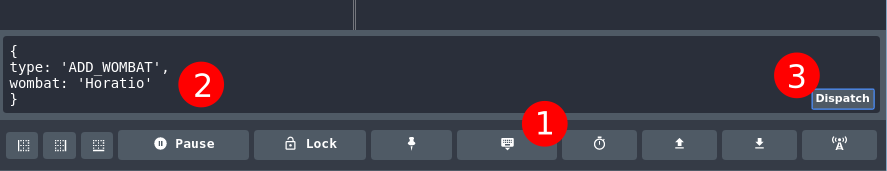
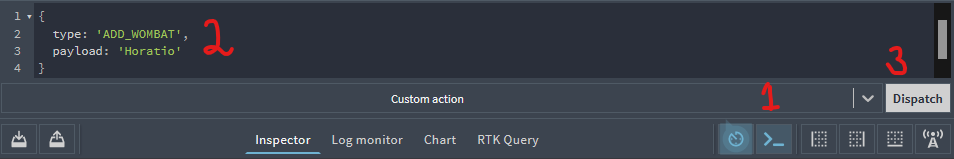
Update ReadMe and image

diff --git a/packages/redux-minimal-solution/README.md b/packages/redux-minimal-solution/README.md
@@ -12,7 +12,7 @@ Open [http://localhost:3000](http://localhost:3000) in your browser.
 
 ## Redux DevTools
 
-The computers on campus should already have the redux devtools installed. If you'd like them on your own computer you can install the Firefox add-on [here](https://addons.mozilla.org/en-US/firefox/addon/reduxdevtools/) and the Chrome extension from [here](https://chrome.google.com/webstore/detail/redux-devtools/lmhkpmbekcpmknklioeibfkpmmfibljd).
+The computers on campus should already have the Redux DevTools installed. If you'd like them on your own computer you can install the Firefox add-on [here](https://addons.mozilla.org/en-US/firefox/addon/reduxdevtools/) and the Chrome extension from [here](https://chrome.google.com/webstore/detail/redux-devtools/lmhkpmbekcpmknklioeibfkpmmfibljd).
 
 
 ## Exercise
@@ -26,11 +26,9 @@ Load up Redux DevTools and dispatch a few `ADD_WOMBAT` and `DEL_WOMBAT` actions 
 
 ### Write some code
 
-- Starting with your `index.js`, follow the *chain* from the **render** function all the way through to the `Wombats.jsx` file. Be sure to take note of the **props** being passed down the chain.
+- Add an `UPDATE_WOMBAT` action to the reducer in `reducers/wombats.js`. Take your time to read through what the reducer currently does, and follow the established pattern to create your new action.
 
-- Add an `UPDATE_WOMBAT` action to the reducer in `reducer.js`. Take your time to read through what the reducer currently does, and follow the established pattern to create your new action.
-
-To update a wombat you will need to provide the **new** name of the wombat (so that it can be changed) but also the **old** name (so that the reducer can find the wombat that needs to be updated).
+To update a wombat you will need to provide the **new** name of the wombat (so that it can be changed) but also the **old** name (so that the reducer can find the wombat that needs to be updated). To hold these two data items, your `payload` will need to be an object instead of a string.
 
 Make sure you can dispatch this new action successfully from Redux DevTools. You'll dispatch this action from code in a later step.
 
@@ -39,11 +37,11 @@ Make sure you can dispatch this new action successfully from Redux DevTools. You
 
 Add a delete button next to each of the wombats so they can be deleted:
 
-- Modify the `Wombats.jsx` component to add a button next to each of the wombats.
+- Modify the `Wombat.jsx` component to add a button next to each of the wombats.
 - Add an event listener to handle an `onClick` event.
 - In the event listener, [`dispatch`](http://redux.js.org/docs/api/Store.html#dispatch) a `DEL_WOMBAT` action to the store to delete the wombat based on its name.
 - **Important!** Make sure that:
-  1. You can refer to the `dispatch` function from the `Wombats.jsx` file.
+  1. You can refer to the `dispatch` function from the `Wombat.jsx` file.
   2. Ensure that the `DEL_WOMBAT` action works from Redux DevTools before making it work through your code.
   3. The correct action is being dispatched from your code on the click event. You could use a function to *produce* an action: these are called *action creators*.
 
@@ -51,6 +49,7 @@ Add a delete button next to each of the wombats so they can be deleted:
 #### Add a Wombat
 
 - Add a simple input field to the page with a button to add a wombat.
+(Which component should this input field be added to, `Wombat.jsx` or `Wombats.jsx`?)
 - Add an event listener to handle the button's `onClick` event.
 - Wire up this input so that it can `dispatch` an `ADD_WOMBAT` action to the store to add the wombat's name from the input box.
 - It may be worth referring to the recommended problem solving steps above.
@@ -58,7 +57,7 @@ Add a delete button next to each of the wombats so they can be deleted:
 
 #### Update a Wombat
 
-- Modify the `Wombats.jsx` component to add an input box and a button next to each of the wombats.
+- Modify the `Wombat.jsx` component to add an input box and a button next to each of the wombats.
 - Add an event to this new input/button upon submission.
 - Looking back at your `UPDATE_WOMBAT` action, it expected both the **new** and **old** name of the wombat, so make sure that you can provide both of these values when you dispatch your action.
 - `dispatch` the action to the store to change the name of the wombat.
@@ -66,9 +65,10 @@ Add a delete button next to each of the wombats so they can be deleted:
 
 #### Add a new type of animal
 
-- Add a new reducer function for another property on the Redux store. We already have `wombats`; how about `aardvarks`?
+- Add a new reducer file for another animal. We already have `wombats`; how about `aardvarks`?
+- In `reducers/index.js`, pass your new reducer file to `combineReducers`.
 - Add some actions to the new reducer.
-- Add another rendering function in `index.js` to handle the new property on the store, and subscribe it to the store using the same method as `wombats`.
+- Make a client-side component (or components) for your new animal.
 
 
 ## See also
